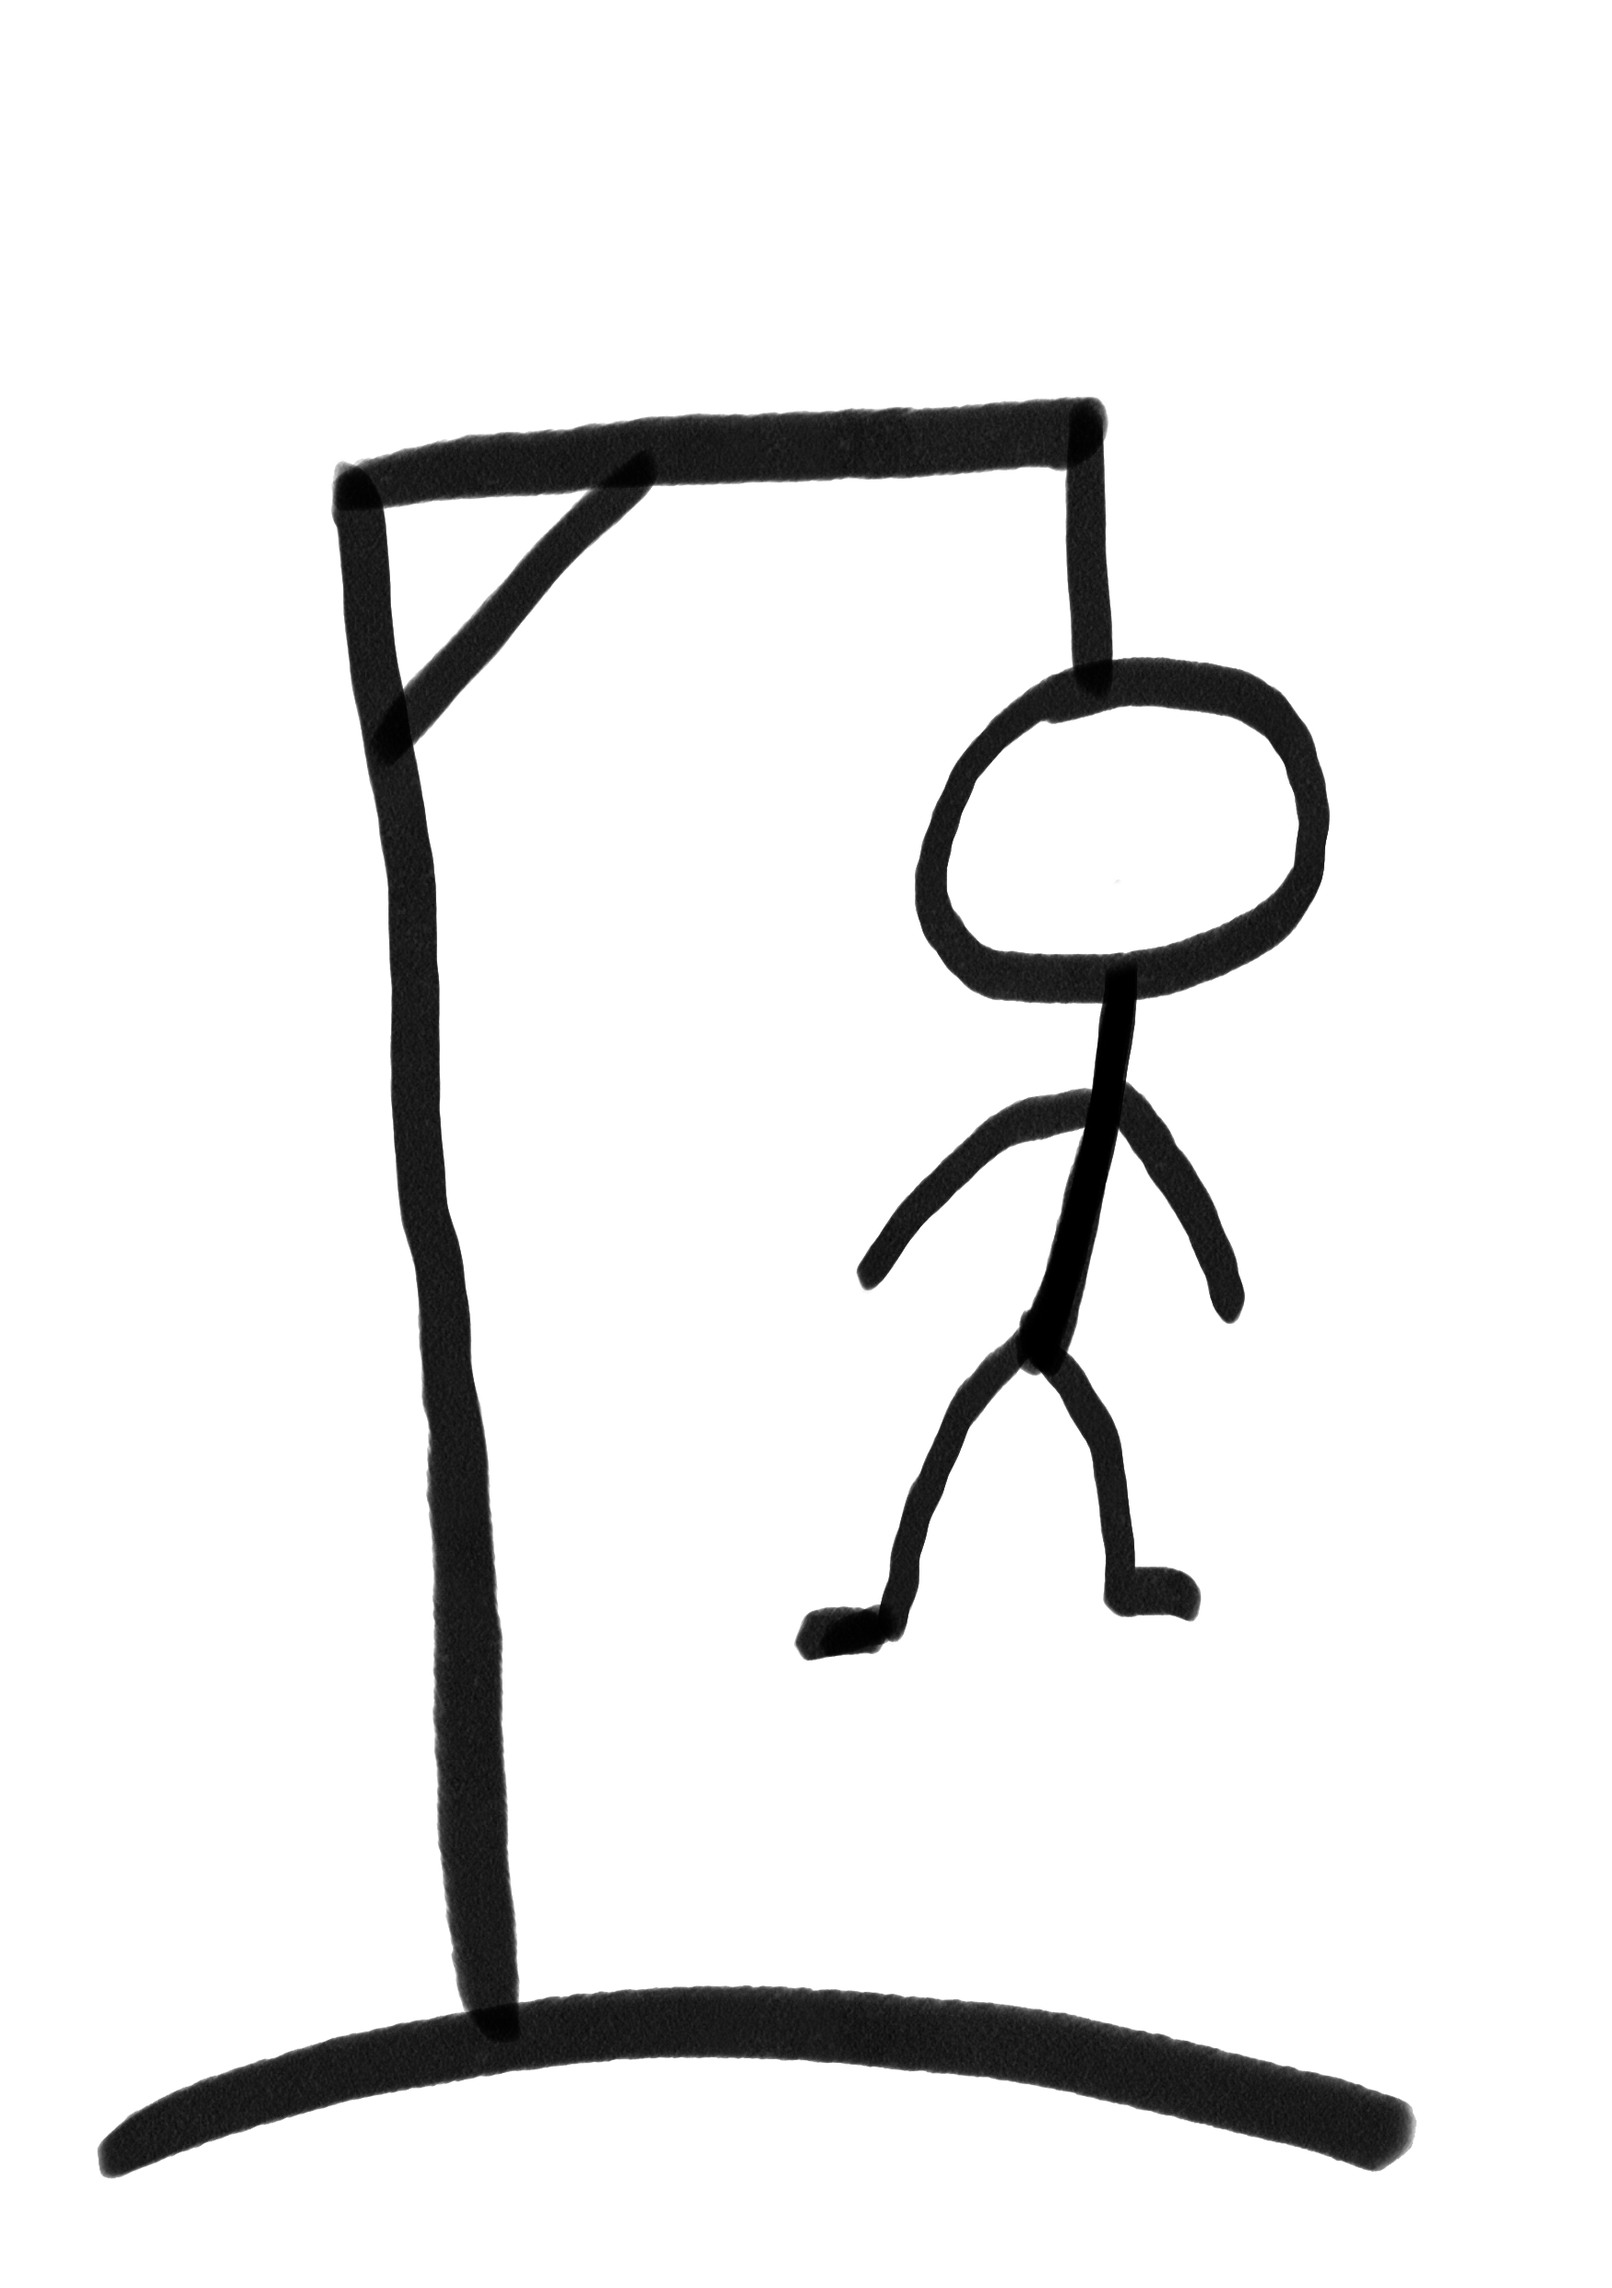
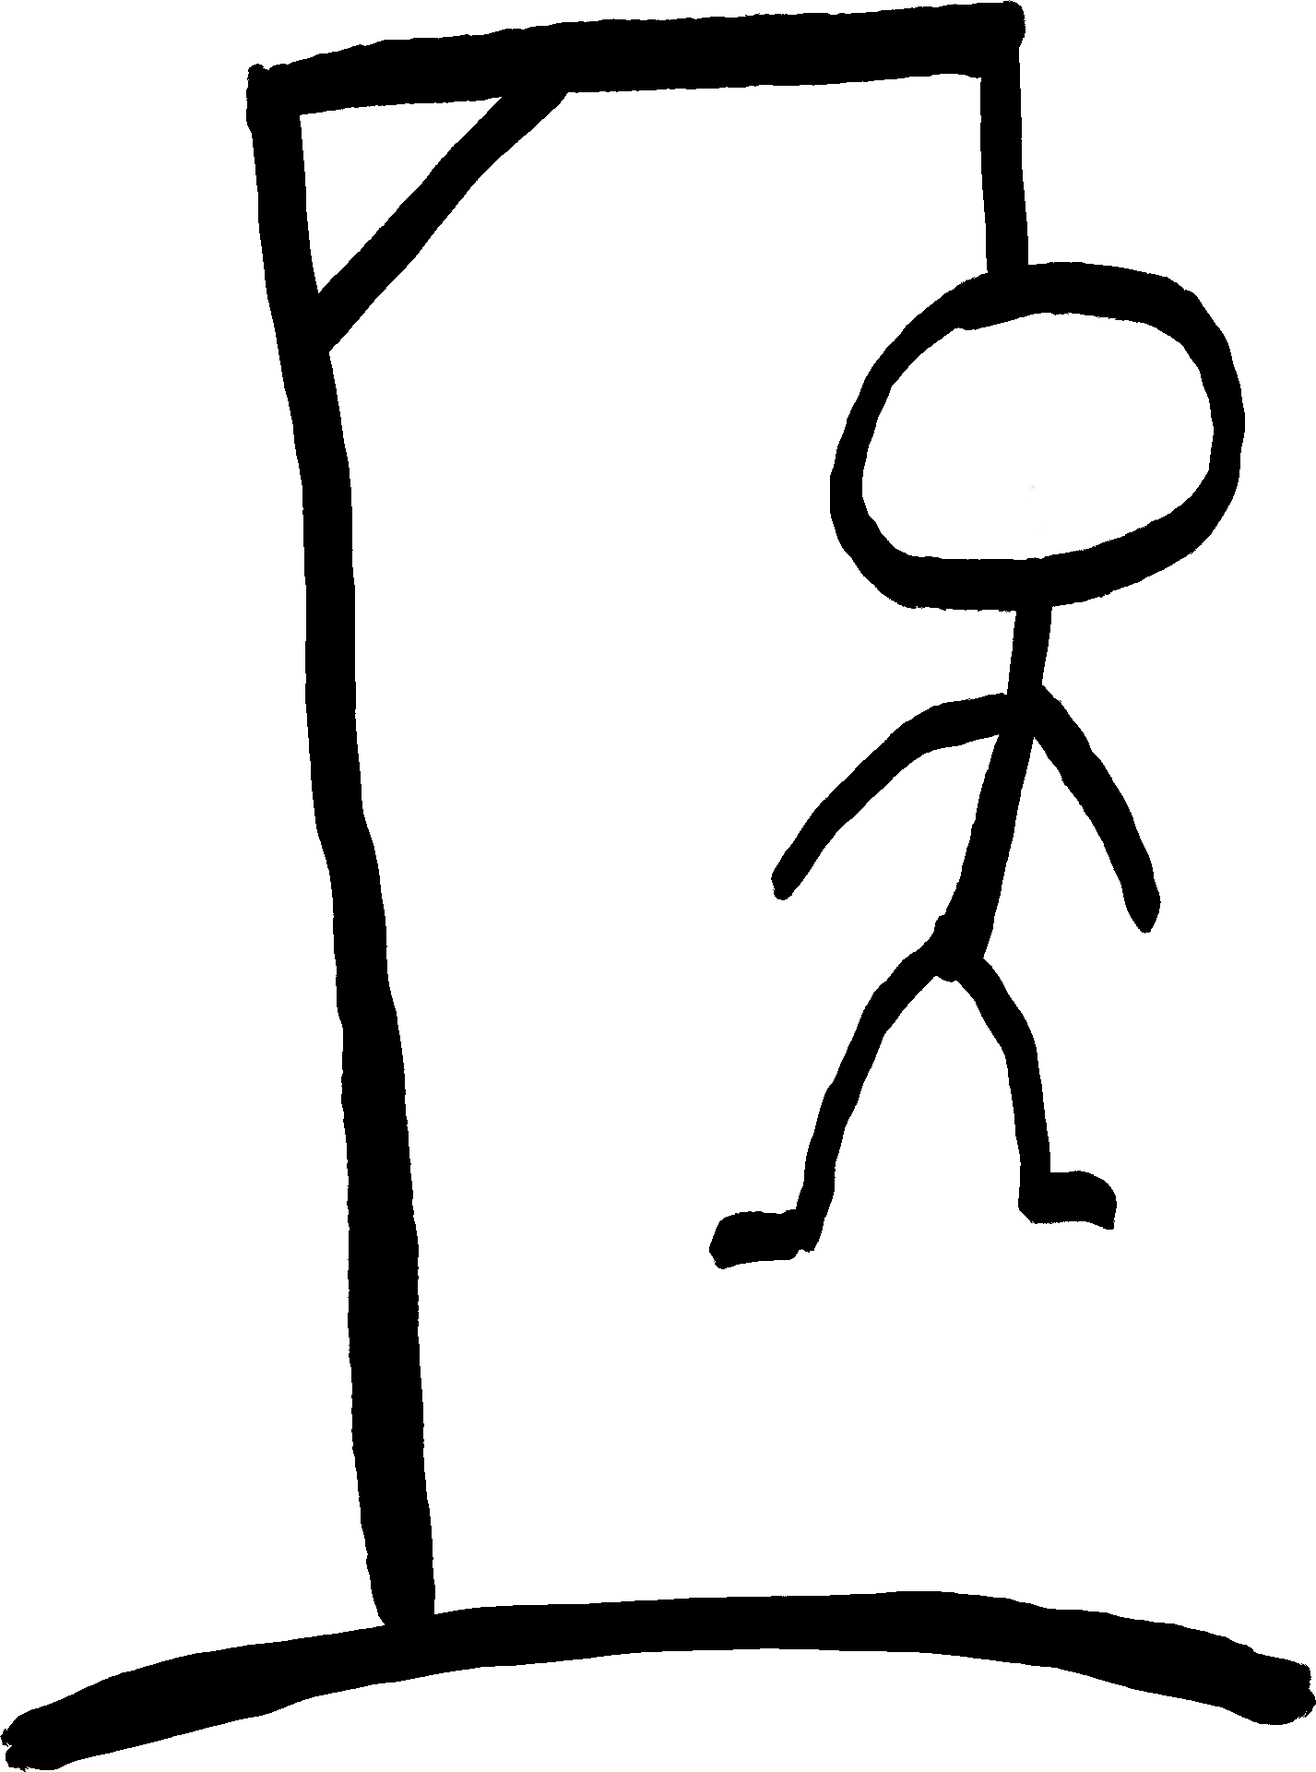
add code to clear game function to change the img

Changed region(s): [[0.0, 0.0, 1.0, 0.9995]]

diff --git a/assets/js/script.js b/assets/js/script.js
@@ -30,6 +30,8 @@ function clearGame(){
         control[x].classList.remove("wrong");
         control[x].classList.remove("right");
     }
+    let img = document.getElementById('hangman');
+    img.innerHTML =  `<img src="./assets/images/hangman0.png" alt="">`
 }
 
 function newWord(){
@@ -38,7 +40,7 @@ function newWord(){
     let html = ""
     for (let x of arr){
        html= html +`<span class="letter">
-            <p>${x}</p>
+            <p class="not-guessed">${x}</p>
         </span>`
     }
     let container = document.getElementById('word')

diff --git a/assets/css/style.css b/assets/css/style.css
@@ -4,6 +4,7 @@
     --green:#2e9239;
     --black:#090c02;
     --white:#d8dad3;
+    --transparant:rgba(0,0,0,0.0); 
     --main-font: "permanent-marker", sans-serif;;
 }
 * {
@@ -46,13 +47,17 @@ div, header{
 .word{
     height:10vh;
 }
+.not-guessed{
+    color:var(--transparant);
+}
 .letter > p{
     font-size: 2em;
-    border-bottom: 4px solid;
+    border-bottom: 4px solid var(--black);
     border-radius: 40px 35px 225px 45px/25px 225px 35px 35px;
     padding: 0 10px;
     margin : 0 5px
 }
+
 
 /* style for the controls/ keyboard section */
 

diff --git a/index.html b/index.html
@@ -16,7 +16,7 @@
     <header>
         <h1>Hangman</h1>
     </header>
-    <div class="hangman">
+    <div class="hangman" id="hangman">
         <img src="./assets/images/hangman.png" alt="">
     </div>
     <div class="word" id="word">
